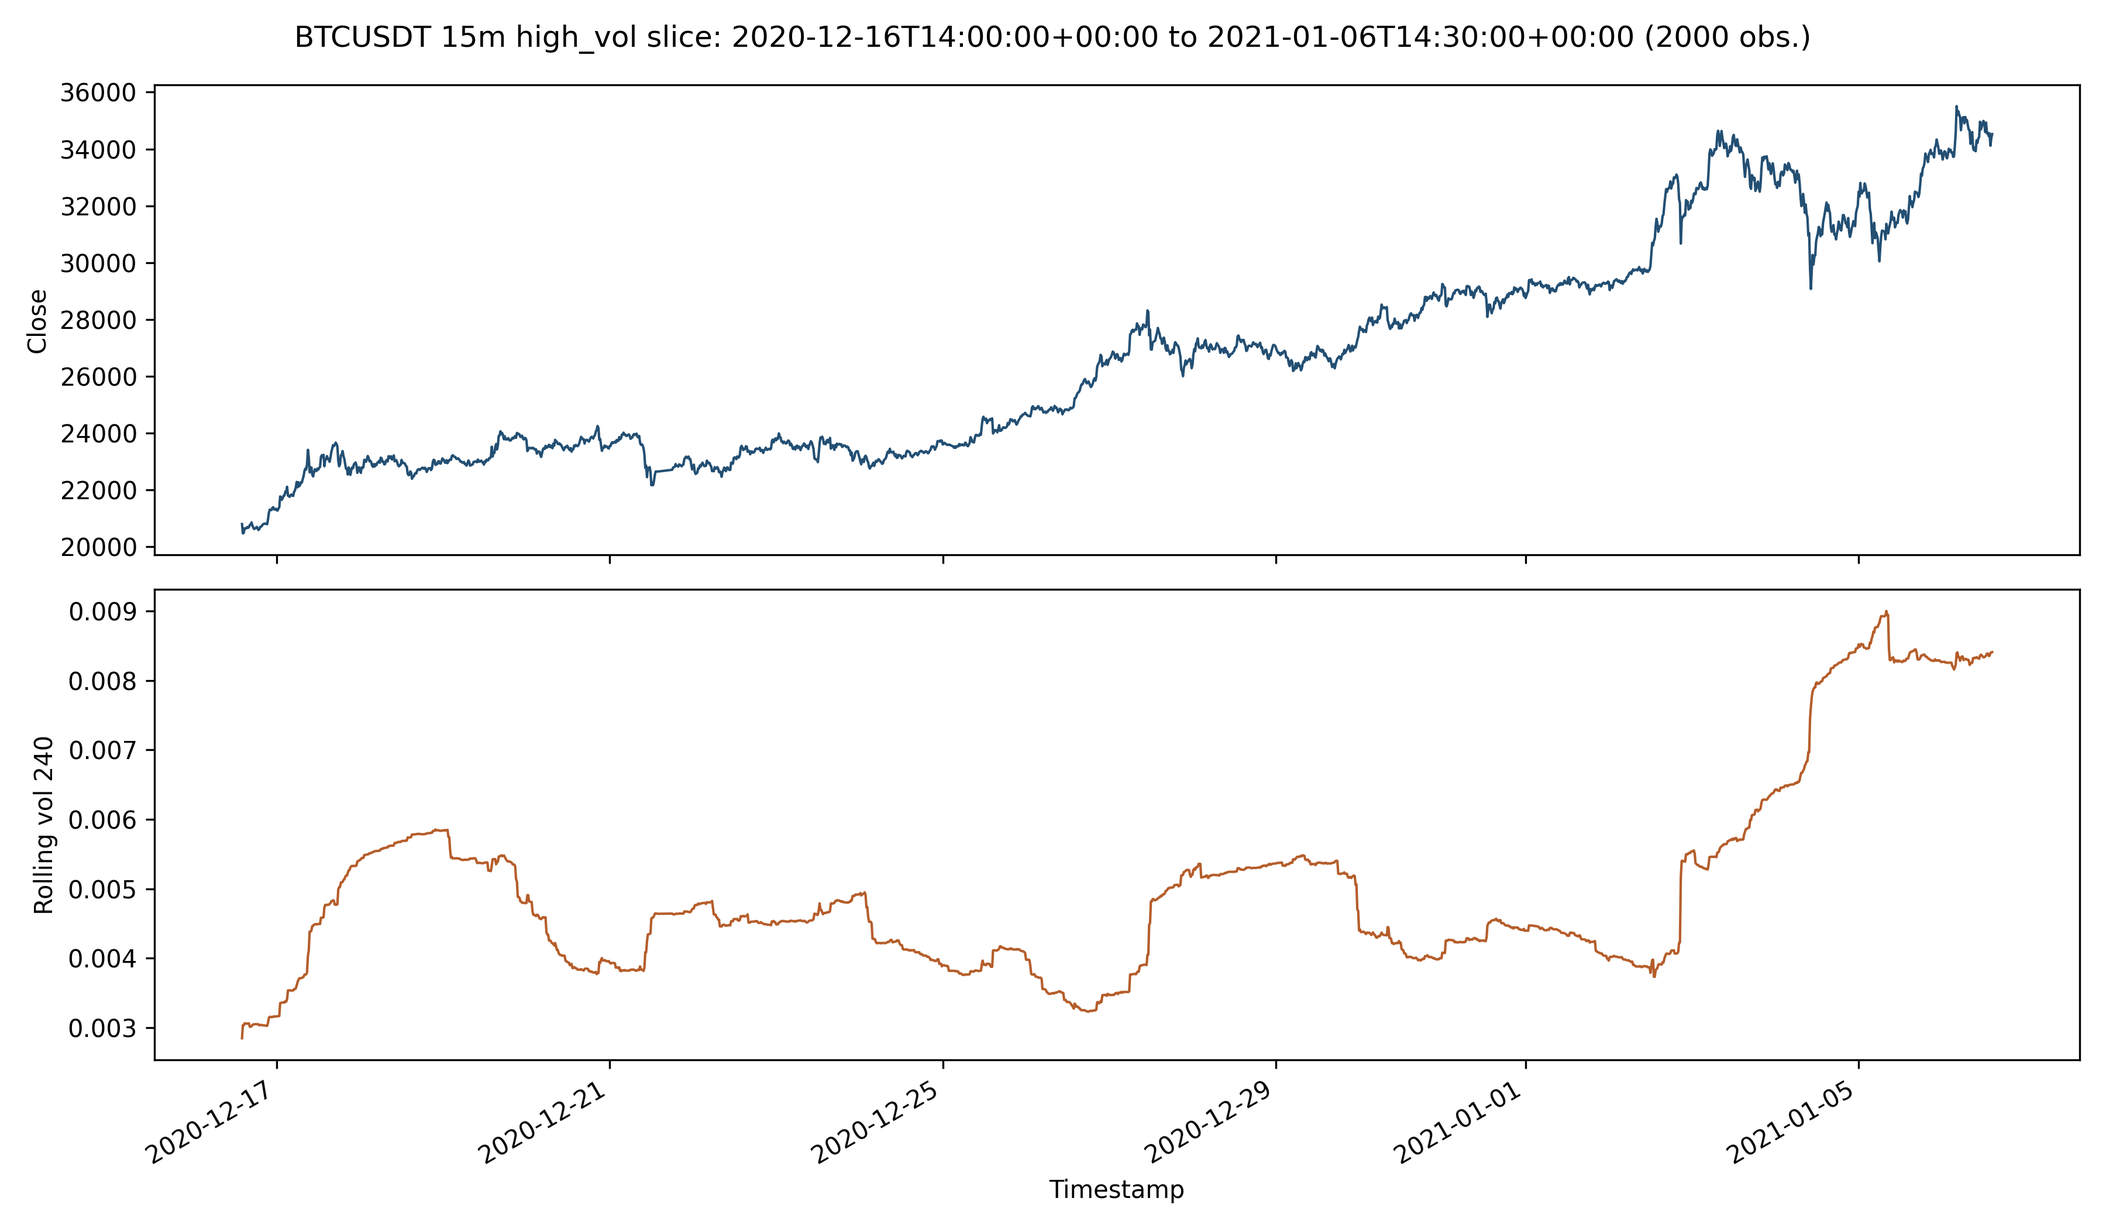
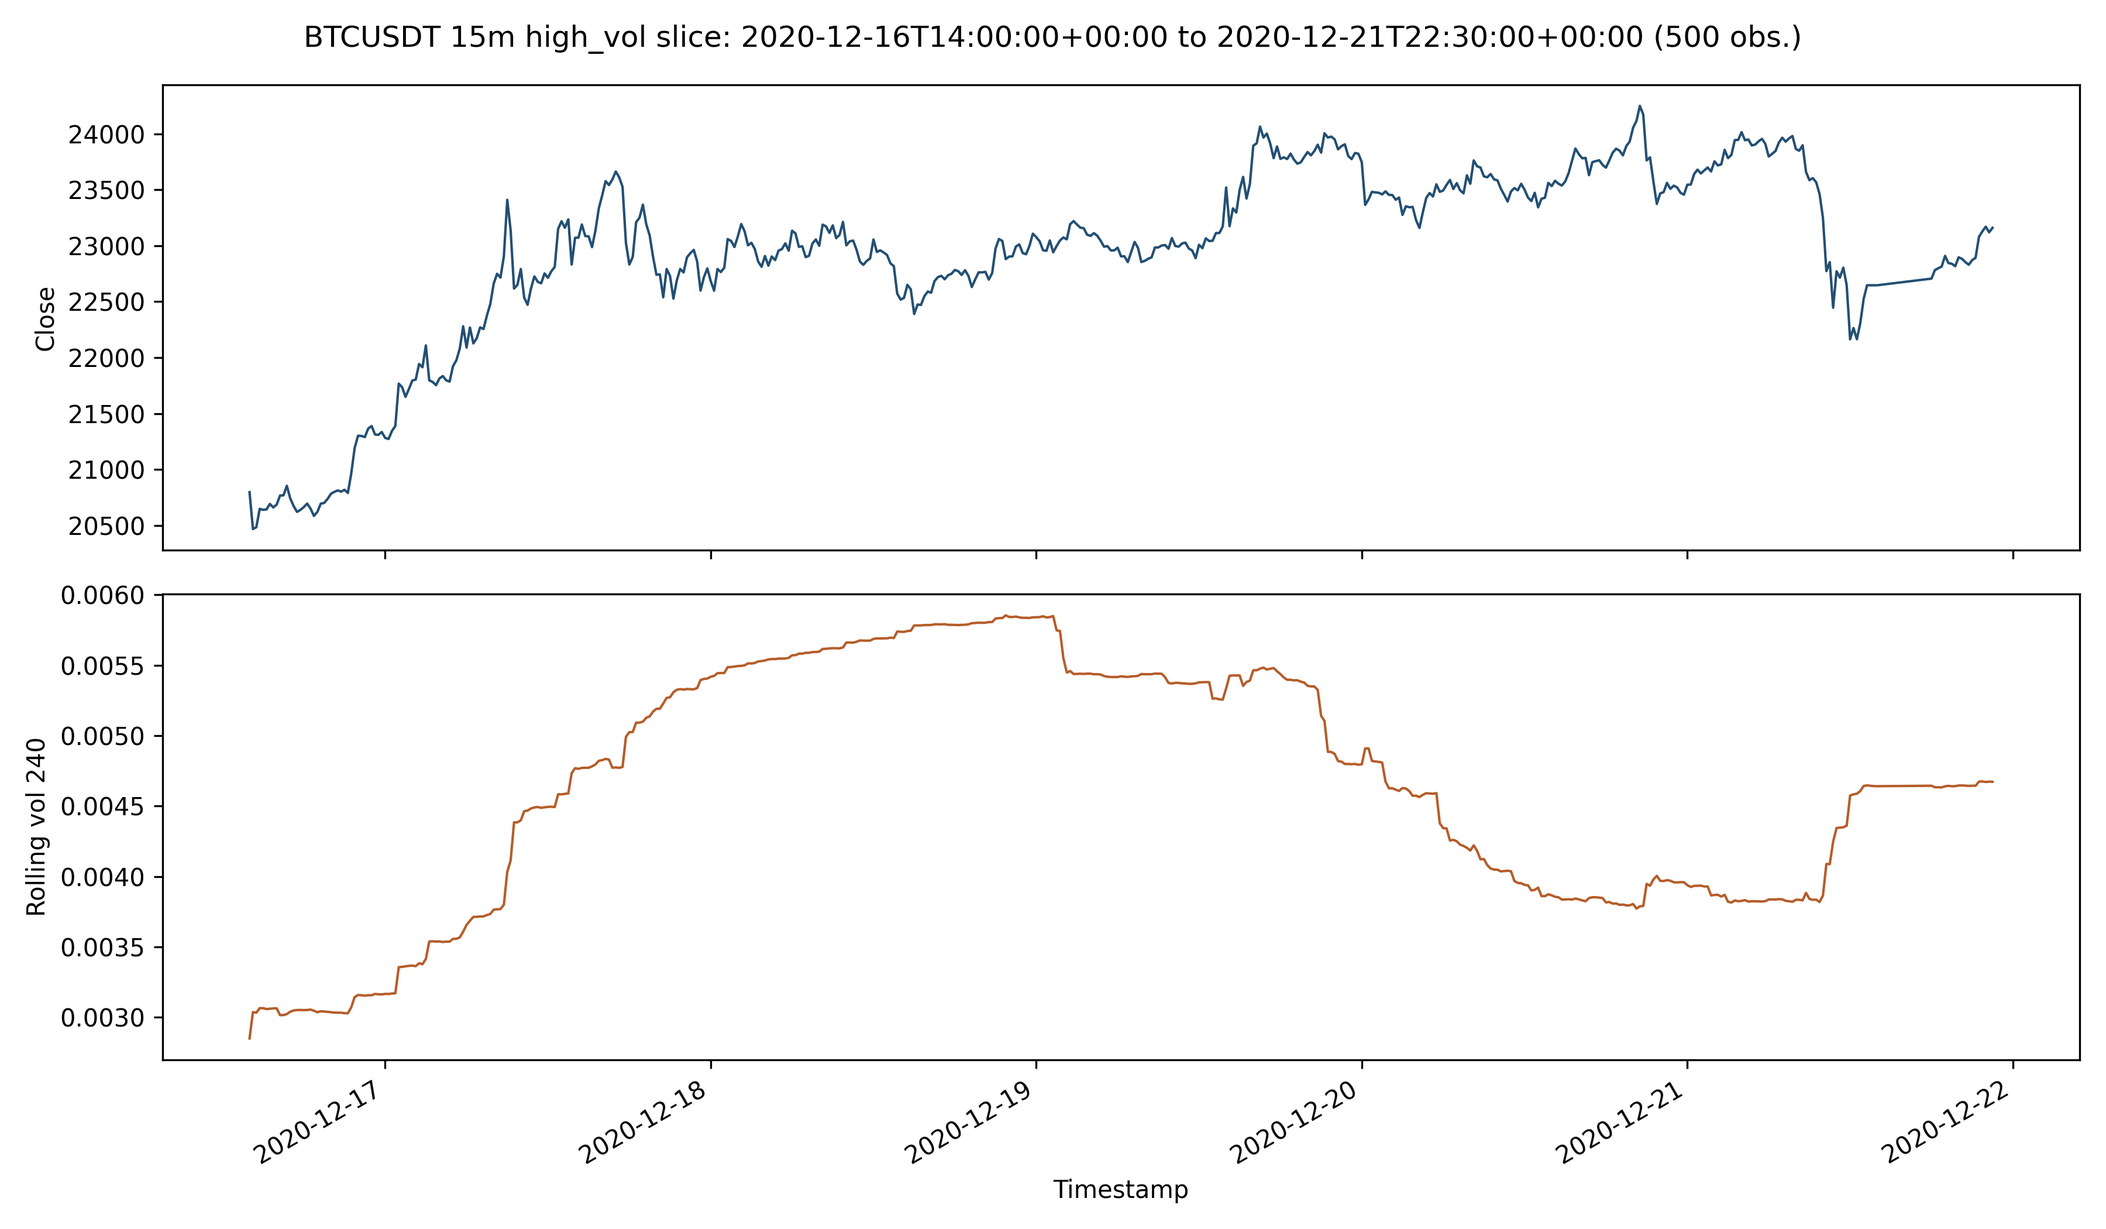
Add HPC controlled LoCoMotif results

diff --git a/reports/locomotif_controlled_slice_comparison/latex/controlled_locomotif_results_section.tex b/reports/locomotif_controlled_slice_comparison/latex/controlled_locomotif_results_section.tex
@@ -6,59 +6,43 @@ This controlled experiment compares Matrix Profile and LoCoMotif on matched BTCU
 
 \subsection{Selected BTCUSDT Regime Slices}
 
-The agnostic\_1h slice used 150 observations from 2020-01-11T00:00:00+00:00 to 2020-01-17T05:00:00+00:00. The selection rule was first\_valid\_contiguous\_1h\_window\_after\_warmup, and the label source was agnostic.
+The agnostic\_1h slice used 300 observations from 2020-01-11T00:00:00+00:00 to 2020-01-23T11:00:00+00:00. The selection rule was first\_valid\_contiguous\_1h\_window\_after\_warmup, and the label source was agnostic.
 
-The high\_vol slice used 2000 observations from 2020-12-16T14:00:00+00:00 to 2021-01-06T14:30:00+00:00. The selection rule was longest\_contiguous\_high\_vol\_segment, and the label source was regenerated\_for\_controlled\_experiment.
+The high\_vol slice used 500 observations from 2020-12-16T14:00:00+00:00 to 2020-12-21T22:30:00+00:00. The selection rule was longest\_contiguous\_high\_vol\_segment, and the label source was regenerated\_for\_controlled\_experiment.
 
-The low\_vol slice used 2000 observations from 2025-06-25T07:45:00+00:00 to 2025-07-16T03:30:00+00:00. The selection rule was longest\_contiguous\_low\_vol\_segment, and the label source was regenerated\_for\_controlled\_experiment.
+The low\_vol slice used 500 observations from 2025-06-25T07:45:00+00:00 to 2025-06-30T12:30:00+00:00. The selection rule was longest\_contiguous\_low\_vol\_segment, and the label source was regenerated\_for\_controlled\_experiment.
 
 \subsection{LoCoMotif Motif-Set Evidence}
 
 LoCoMotif returns time-warped motif sets, so its counts are motif-set counts and occurrence counts rather than nearest-neighbour pair counts.
 
-For agnostic\_1h with feature close\_z and rho 0.65, LoCoMotif failed; runtime was nan seconds and 0 motif sets were recorded.
+For agnostic\_1h with feature close\_z and rho 0.65, LoCoMotif succeeded; runtime was 1.649134243838489 seconds and 3 motif sets were recorded.
 
-For high\_vol with feature close\_z and rho 0.65, LoCoMotif failed; runtime was nan seconds and 0 motif sets were recorded.
+For low\_vol with feature close\_z and rho 0.65, LoCoMotif succeeded; runtime was 1.5872423723340034 seconds and 3 motif sets were recorded.
 
-For low\_vol with feature close\_z and rho 0.65, LoCoMotif failed; runtime was nan seconds and 0 motif sets were recorded.
-
-For agnostic\_1h with feature close\_z and rho 0.65, LoCoMotif failed; runtime was nan seconds and 0 motif sets were recorded.
-
-For agnostic\_1h with feature close\_z and rho 0.65, LoCoMotif failed; runtime was nan seconds and 0 motif sets were recorded.
+For high\_vol with feature close\_z and rho 0.65, LoCoMotif succeeded; runtime was 1.6392561960965395 seconds and 3 motif sets were recorded.
 
 \subsection{Matrix Profile versus LoCoMotif on Matched Slices}
 
 Matrix Profile gives fixed-length nearest-neighbour motif pairs. LoCoMotif groups repeated occurrences that may be locally time-warped. The comparison therefore uses matched slices and matched normalized features, but does not treat raw counts as equivalent objects.
 
-For agnostic\_1h, the Matrix Profile run with window 24 had best distance 0.864456 and runtime 25.257 seconds.
+For agnostic\_1h, the Matrix Profile run with window 24 had best distance 1.097757 and runtime 20.955 seconds.
 
-For agnostic\_1h, the Matrix Profile run with window 48 had best distance 1.688181 and runtime 0.027 seconds.
+For agnostic\_1h, the Matrix Profile run with window 48 had best distance 2.741403 and runtime 0.277 seconds.
 
-For agnostic\_1h, the Matrix Profile run with window 72 had best distance 2.157387 and runtime 0.022 seconds.
+For agnostic\_1h, the Matrix Profile run with window 72 had best distance 3.405117 and runtime 0.001 seconds.
 
-For high\_vol, the Matrix Profile run with window 32 had best distance 1.259655 and runtime 24.867 seconds.
+For low\_vol, the Matrix Profile run with window 32 had best distance 1.451609 and runtime 19.471 seconds.
 
-For high\_vol, the Matrix Profile run with window 64 had best distance 1.777807 and runtime 0.031 seconds.
+For low\_vol, the Matrix Profile run with window 64 had best distance 2.592858 and runtime 0.002 seconds.
 
-For high\_vol, the Matrix Profile run with window 128 had best distance 3.206065 and runtime 0.030 seconds.
+For low\_vol, the Matrix Profile run with window 128 had best distance 7.683076 and runtime 0.002 seconds.
 
-For low\_vol, the Matrix Profile run with window 32 had best distance 1.014036 and runtime 25.294 seconds.
+For high\_vol, the Matrix Profile run with window 32 had best distance 1.546767 and runtime 20.005 seconds.
 
-For low\_vol, the Matrix Profile run with window 64 had best distance 1.862371 and runtime 0.028 seconds.
+For high\_vol, the Matrix Profile run with window 64 had best distance 2.716202 and runtime 0.002 seconds.
 
-For low\_vol, the Matrix Profile run with window 128 had best distance 2.578395 and runtime 0.028 seconds.
-
-For agnostic\_1h, the Matrix Profile run with window 24 had best distance 1.097757 and runtime 29.136 seconds.
-
-For agnostic\_1h, the Matrix Profile run with window 48 had best distance 2.741403 and runtime 0.005 seconds.
-
-For agnostic\_1h, the Matrix Profile run with window 72 had best distance 3.405117 and runtime 0.006 seconds.
-
-For agnostic\_1h, the Matrix Profile run with window 24 had best distance 1.097757 and runtime 33.039 seconds.
-
-For agnostic\_1h, the Matrix Profile run with window 48 had best distance 4.032607 and runtime 0.005 seconds.
-
-For agnostic\_1h, the Matrix Profile run with window 72 had best distance 6.213685 and runtime 0.006 seconds.
+For high\_vol, the Matrix Profile run with window 128 had best distance 6.915562 and runtime 0.002 seconds.
 
 \subsection{Interpretation for Research Question 3}
 

diff --git a/reports/locomotif_controlled_slice_comparison/CONTROLLED_LOCOMOTIF_RUN_REPORT.md b/reports/locomotif_controlled_slice_comparison/CONTROLLED_LOCOMOTIF_RUN_REPORT.md
@@ -6,13 +6,13 @@
 
 ## Regime labels
 - agnostic_1h: agnostic from `not_applicable`
-- high_vol: regenerated_for_controlled_experiment from `C:\Users\learn\OneDrive\Desktop\Final Masters Thesis\reports\locomotif_controlled_slice_comparison\tables\btcusdt_15m_quantile2rolling240_regenerated_labels.csv`
-- low_vol: regenerated_for_controlled_experiment from `C:\Users\learn\OneDrive\Desktop\Final Masters Thesis\reports\locomotif_controlled_slice_comparison\tables\btcusdt_15m_quantile2rolling240_regenerated_labels.csv`
+- high_vol: regenerated_for_controlled_experiment from `/home/i6404275/Final_master_thesis/reports/locomotif_controlled_slice_comparison/tables/btcusdt_15m_quantile2rolling240_regenerated_labels.csv`
+- low_vol: regenerated_for_controlled_experiment from `/home/i6404275/Final_master_thesis/reports/locomotif_controlled_slice_comparison/tables/btcusdt_15m_quantile2rolling240_regenerated_labels.csv`
 
 ## Selected slices
-- agnostic_1h: 2020-01-11T00:00:00+00:00 to 2020-01-17T05:00:00+00:00, n=150, rule=first_valid_contiguous_1h_window_after_warmup
-- high_vol: 2020-12-16T14:00:00+00:00 to 2021-01-06T14:30:00+00:00, n=2000, rule=longest_contiguous_high_vol_segment
-- low_vol: 2025-06-25T07:45:00+00:00 to 2025-07-16T03:30:00+00:00, n=2000, rule=longest_contiguous_low_vol_segment
+- agnostic_1h: 2020-01-11T00:00:00+00:00 to 2020-01-23T11:00:00+00:00, n=300, rule=first_valid_contiguous_1h_window_after_warmup
+- high_vol: 2020-12-16T14:00:00+00:00 to 2020-12-21T22:30:00+00:00, n=500, rule=longest_contiguous_high_vol_segment
+- low_vol: 2025-06-25T07:45:00+00:00 to 2025-06-30T12:30:00+00:00, n=500, rule=longest_contiguous_low_vol_segment
 
 ## LoCoMotif package/import used
 - Real `dtai-locomotif` through `locomotif.locomotif.apply_locomotif` when available.
@@ -26,26 +26,18 @@
 - 1h windows: 24, 48, 72.
 
 ## Success/failure status
-- LoCoMotif agnostic_1h_close_z_rho0.65_n1000: success=False, runtime=nan, error=TimeoutError('Real LoCoMotif call exceeded 360 seconds.')
-- LoCoMotif high_vol_close_z_rho0.65_n2000: success=False, runtime=nan, error=TimeoutError('Real LoCoMotif call exceeded 120 seconds.')
-- LoCoMotif low_vol_close_z_rho0.65_n2000: success=False, runtime=nan, error=TimeoutError('Real LoCoMotif call exceeded 120 seconds.')
-- LoCoMotif agnostic_1h_close_z_rho0.65_n300: success=False, runtime=nan, error=TimeoutError('Real LoCoMotif call exceeded 600 seconds.')
-- LoCoMotif agnostic_1h_close_z_rho0.65_n150: success=False, runtime=nan, error=TimeoutError('Real LoCoMotif call exceeded 600 seconds.')
-- Matrix Profile agnostic_1h_close_z_m24_n1000: best_distance=0.864456494113353, runtime=25.25699860000168
-- Matrix Profile agnostic_1h_close_z_m48_n1000: best_distance=1.6881810735680085, runtime=0.0272111000012955
-- Matrix Profile agnostic_1h_close_z_m72_n1000: best_distance=2.157387399990955, runtime=0.0223655000008875
-- Matrix Profile high_vol_close_z_m32_n2000: best_distance=1.2596553869820644, runtime=24.8668061999997
-- Matrix Profile high_vol_close_z_m64_n2000: best_distance=1.777806546219947, runtime=0.0311748000021907
-- Matrix Profile high_vol_close_z_m128_n2000: best_distance=3.206065176956419, runtime=0.0298269000049913
-- Matrix Profile low_vol_close_z_m32_n2000: best_distance=1.0140356654521008, runtime=25.29417839999951
-- Matrix Profile low_vol_close_z_m64_n2000: best_distance=1.862371282034455, runtime=0.0282050000023446
-- Matrix Profile low_vol_close_z_m128_n2000: best_distance=2.5783948046574103, runtime=0.0284736000030534
-- Matrix Profile agnostic_1h_close_z_m24_n300: best_distance=1.097756622181075, runtime=29.13620819999778
-- Matrix Profile agnostic_1h_close_z_m48_n300: best_distance=2.741402888536006, runtime=0.0051800000001094
-- Matrix Profile agnostic_1h_close_z_m72_n300: best_distance=3.4051174838788425, runtime=0.0058575000002747
-- Matrix Profile agnostic_1h_close_z_m24_n150: best_distance=1.0977566221810604, runtime=33.03948400000081
-- Matrix Profile agnostic_1h_close_z_m48_n150: best_distance=4.032606788574689, runtime=0.0054463999986182
-- Matrix Profile agnostic_1h_close_z_m72_n150: best_distance=6.2136848150774, runtime=0.0061176000017439
+- LoCoMotif agnostic_1h_close_z_rho0.65_n300: success=True, runtime=1.649134243838489, error=nan
+- LoCoMotif low_vol_close_z_rho0.65_n500: success=True, runtime=1.5872423723340034, error=nan
+- LoCoMotif high_vol_close_z_rho0.65_n500: success=True, runtime=1.6392561960965395, error=nan
+- Matrix Profile agnostic_1h_close_z_m24_n300: best_distance=1.097756622181075, runtime=20.9546563597396
+- Matrix Profile agnostic_1h_close_z_m48_n300: best_distance=2.741402888536006, runtime=0.2766603482887149
+- Matrix Profile agnostic_1h_close_z_m72_n300: best_distance=3.4051174838788425, runtime=0.0011152476072311
+- Matrix Profile low_vol_close_z_m32_n500: best_distance=1.4516092467236272, runtime=19.47117221262306
+- Matrix Profile low_vol_close_z_m64_n500: best_distance=2.592858384704644, runtime=0.0024879146367311
+- Matrix Profile low_vol_close_z_m128_n500: best_distance=7.683076291314106, runtime=0.002139450982213
+- Matrix Profile high_vol_close_z_m32_n500: best_distance=1.5467674927294324, runtime=20.00468649808317
+- Matrix Profile high_vol_close_z_m64_n500: best_distance=2.7162020324978604, runtime=0.0019240472465753
+- Matrix Profile high_vol_close_z_m128_n500: best_distance=6.915562270853985, runtime=0.0017439154908061
 
 ## Generated tables
 - `tables/locomotif_controlled_runtime.csv`
@@ -59,26 +51,18 @@
 - See `figures/*.png`.
 
 ## Key numbers for thesis
-- agnostic_1h LoCoMotif lmin=24, lmax=72, rho=0.65, nb=10, overlap=0.2, warping=True: count=0, runtime=nan
-- high_vol LoCoMotif lmin=32, lmax=128, rho=0.65, nb=10, overlap=0.2, warping=True: count=0, runtime=nan
-- low_vol LoCoMotif lmin=32, lmax=128, rho=0.65, nb=10, overlap=0.2, warping=True: count=0, runtime=nan
-- agnostic_1h LoCoMotif lmin=12, lmax=48, rho=0.65, nb=3, overlap=0.2, warping=True: count=0, runtime=nan
-- agnostic_1h LoCoMotif lmin=8, lmax=32, rho=0.65, nb=2, overlap=0.2, warping=True: count=0, runtime=nan
-- agnostic_1h Matrix Profile window_length=24: count=1, runtime=25.25699860000168
-- agnostic_1h Matrix Profile window_length=48: count=1, runtime=0.0272111000012955
-- agnostic_1h Matrix Profile window_length=72: count=1, runtime=0.0223655000008875
-- high_vol Matrix Profile window_length=32: count=1, runtime=24.8668061999997
-- high_vol Matrix Profile window_length=64: count=1, runtime=0.0311748000021907
-- high_vol Matrix Profile window_length=128: count=1, runtime=0.0298269000049913
-- low_vol Matrix Profile window_length=32: count=1, runtime=25.29417839999951
-- low_vol Matrix Profile window_length=64: count=1, runtime=0.0282050000023446
-- low_vol Matrix Profile window_length=128: count=1, runtime=0.0284736000030534
-- agnostic_1h Matrix Profile window_length=24: count=1, runtime=29.13620819999778
-- agnostic_1h Matrix Profile window_length=48: count=1, runtime=0.0051800000001094
-- agnostic_1h Matrix Profile window_length=72: count=1, runtime=0.0058575000002747
-- agnostic_1h Matrix Profile window_length=24: count=1, runtime=33.03948400000081
-- agnostic_1h Matrix Profile window_length=48: count=1, runtime=0.0054463999986182
-- agnostic_1h Matrix Profile window_length=72: count=1, runtime=0.0061176000017439
+- agnostic_1h LoCoMotif lmin=12, lmax=48, rho=0.65, nb=3, overlap=0.2, warping=True: count=3, runtime=1.649134243838489
+- low_vol LoCoMotif lmin=12, lmax=48, rho=0.65, nb=3, overlap=0.2, warping=True: count=3, runtime=1.5872423723340034
+- high_vol LoCoMotif lmin=12, lmax=48, rho=0.65, nb=3, overlap=0.2, warping=True: count=3, runtime=1.6392561960965395
+- agnostic_1h Matrix Profile window_length=24: count=1, runtime=20.9546563597396
+- agnostic_1h Matrix Profile window_length=48: count=1, runtime=0.2766603482887149
+- agnostic_1h Matrix Profile window_length=72: count=1, runtime=0.0011152476072311
+- low_vol Matrix Profile window_length=32: count=1, runtime=19.47117221262306
+- low_vol Matrix Profile window_length=64: count=1, runtime=0.0024879146367311
+- low_vol Matrix Profile window_length=128: count=1, runtime=0.002139450982213
+- high_vol Matrix Profile window_length=32: count=1, runtime=20.00468649808317
+- high_vol Matrix Profile window_length=64: count=1, runtime=0.0019240472465753
+- high_vol Matrix Profile window_length=128: count=1, runtime=0.0017439154908061
 
 ## Limitations
 - Controlled BTCUSDT slices only; not a full benchmark.

diff --git a/reports/locomotif_controlled_slice_comparison/HPC_RESULTS_SUMMARY.md b/reports/locomotif_controlled_slice_comparison/HPC_RESULTS_SUMMARY.md
@@ -1,0 +1,52 @@
+# HPC Results Summary
+
+## Jobs Found
+- `logs/locomotif_high_tiny_6046.out`: bytes=1001, complete=True, timeout=False, error=False
+- `logs/locomotif_low_tiny_6047.out`: bytes=1000, complete=True, timeout=False, error=False
+- `logs/locomotif_micro_6045.out`: bytes=997, complete=True, timeout=False, error=False
+- `logs/locomotif_high_tiny_6046.err`: bytes=0, complete=False, timeout=False, error=False
+- `logs/locomotif_low_tiny_6047.err`: bytes=0, complete=False, timeout=False, error=False
+- `logs/locomotif_micro_6045.err`: bytes=0, complete=False, timeout=False, error=False
+
+## LoCoMotif Runtime and Motif Sets
+- Runtime table: `reports/locomotif_controlled_slice_comparison/tables/locomotif_controlled_runtime.csv`
+- agnostic_1h_close_z_rho0.65_n300: success, runtime=1.649134243838489, motif_sets=3, occurrences=18, error=nan
+- low_vol_close_z_rho0.65_n500: success, runtime=1.5872423723340034, motif_sets=3, occurrences=28, error=nan
+- high_vol_close_z_rho0.65_n500: success, runtime=1.6392561960965395, motif_sets=3, occurrences=27, error=nan
+
+## Matrix Profile Results
+- Matrix Profile table: `reports/locomotif_controlled_slice_comparison/tables/mp_controlled_slice_motifs.csv`
+- agnostic_1h m=24: best_distance=1.097756622181075, runtime=20.9546563597396
+- agnostic_1h m=48: best_distance=2.741402888536006, runtime=0.2766603482887149
+- agnostic_1h m=72: best_distance=3.4051174838788425, runtime=0.0011152476072311
+- low_vol m=32: best_distance=1.4516092467236272, runtime=19.47117221262306
+- low_vol m=64: best_distance=2.592858384704644, runtime=0.0024879146367311
+- low_vol m=128: best_distance=7.683076291314106, runtime=0.002139450982213
+- high_vol m=32: best_distance=1.5467674927294324, runtime=20.00468649808317
+- high_vol m=64: best_distance=2.7162020324978604, runtime=0.0019240472465753
+- high_vol m=128: best_distance=6.915562270853985, runtime=0.0017439154908061
+
+## Configs
+- `reports/locomotif_controlled_slice_comparison/configs/locomotif_parameter_mapping.json`: keys=implementation, package, mapping
+- `reports/locomotif_controlled_slice_comparison/configs/selected_slices_metadata.json`: 3 entries
+
+## Generated Figures
+- `reports/locomotif_controlled_slice_comparison/figures/btcusdt_15m_high_vol_slice_overview.png` (343126 bytes)
+- `reports/locomotif_controlled_slice_comparison/figures/btcusdt_15m_low_vol_slice_overview.png` (367171 bytes)
+- `reports/locomotif_controlled_slice_comparison/figures/controlled_locomotif_experiment_summary.png` (223176 bytes)
+- `reports/locomotif_controlled_slice_comparison/figures/locomotif_btcusdt_15m_high_vol_top_motif_set.png` (244210 bytes)
+- `reports/locomotif_controlled_slice_comparison/figures/locomotif_btcusdt_15m_low_vol_top_motif_set.png` (297567 bytes)
+- `reports/locomotif_controlled_slice_comparison/figures/locomotif_interval_length_distribution.png` (70174 bytes)
+- `reports/locomotif_controlled_slice_comparison/figures/locomotif_runtime_by_rho.png` (80924 bytes)
+- `reports/locomotif_controlled_slice_comparison/figures/micro_locomotif_btcusdt_1h_top_motif_set.png` (216479 bytes)
+- `reports/locomotif_controlled_slice_comparison/figures/micro_locomotif_runtime.png` (109336 bytes)
+- `reports/locomotif_controlled_slice_comparison/figures/micro_mp_vs_locomotif_btcusdt_1h_side_by_side.png` (303069 bytes)
+- `reports/locomotif_controlled_slice_comparison/figures/mp_btcusdt_15m_high_vol_top_motif_overlay.png` (241191 bytes)
+- `reports/locomotif_controlled_slice_comparison/figures/mp_btcusdt_15m_low_vol_top_motif_overlay.png` (291121 bytes)
+- `reports/locomotif_controlled_slice_comparison/figures/mp_vs_locomotif_counts.png` (100726 bytes)
+- `reports/locomotif_controlled_slice_comparison/figures/mp_vs_locomotif_high_vol_side_by_side.png` (315927 bytes)
+- `reports/locomotif_controlled_slice_comparison/figures/mp_vs_locomotif_low_vol_side_by_side.png` (409930 bytes)
+- `reports/locomotif_controlled_slice_comparison/figures/mp_vs_locomotif_runtime.png` (86520 bytes)
+
+## Thesis Interpretation Recommendation
+At least one real LoCoMotif run succeeded. Report successful motif-set counts and keep timeouts separate.
